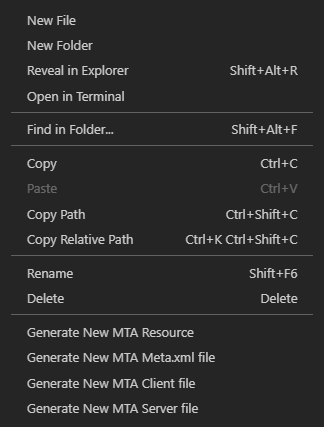
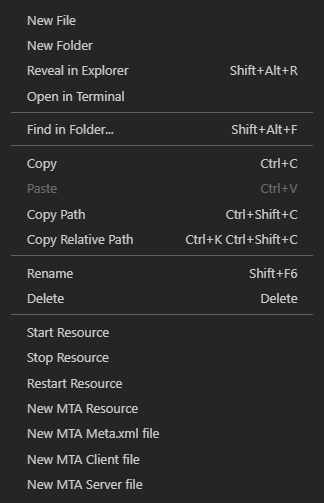
README changed Version up

Changed region(s): [[0.0309, 0.0304, 0.9568, 0.9742], [0.7099, 0.2436, 0.9259, 0.3349], [0.7099, 0.1218, 0.9259, 0.1827]]

diff --git a/README.md b/README.md
@@ -29,7 +29,7 @@ MTA:SA Lua is a VS Code extension to add syntax highlighting and code completion
         - [Server only Function](#server-only-function)
         - [Client only Function](#client-only-function)
         - [Shared Function](#shared-function)
-    - [Generate Files](#generate-files)
+    - [Generate Files and Manage resources](#generate-files-manage-resources)
     - [VSDark](#vsdark)
         - [Server](#server)
         - [Client](#client)
@@ -56,7 +56,7 @@ MTA:SA Lua is a VS Code extension to add syntax highlighting and code completion
 
 ![Server Function](images/Preview_SharedFunc.png)
 
-## Generate files
+## Generate files Manage resources
 
 ![Generate Files](images/Preview_GenerateFiles.png)
 
